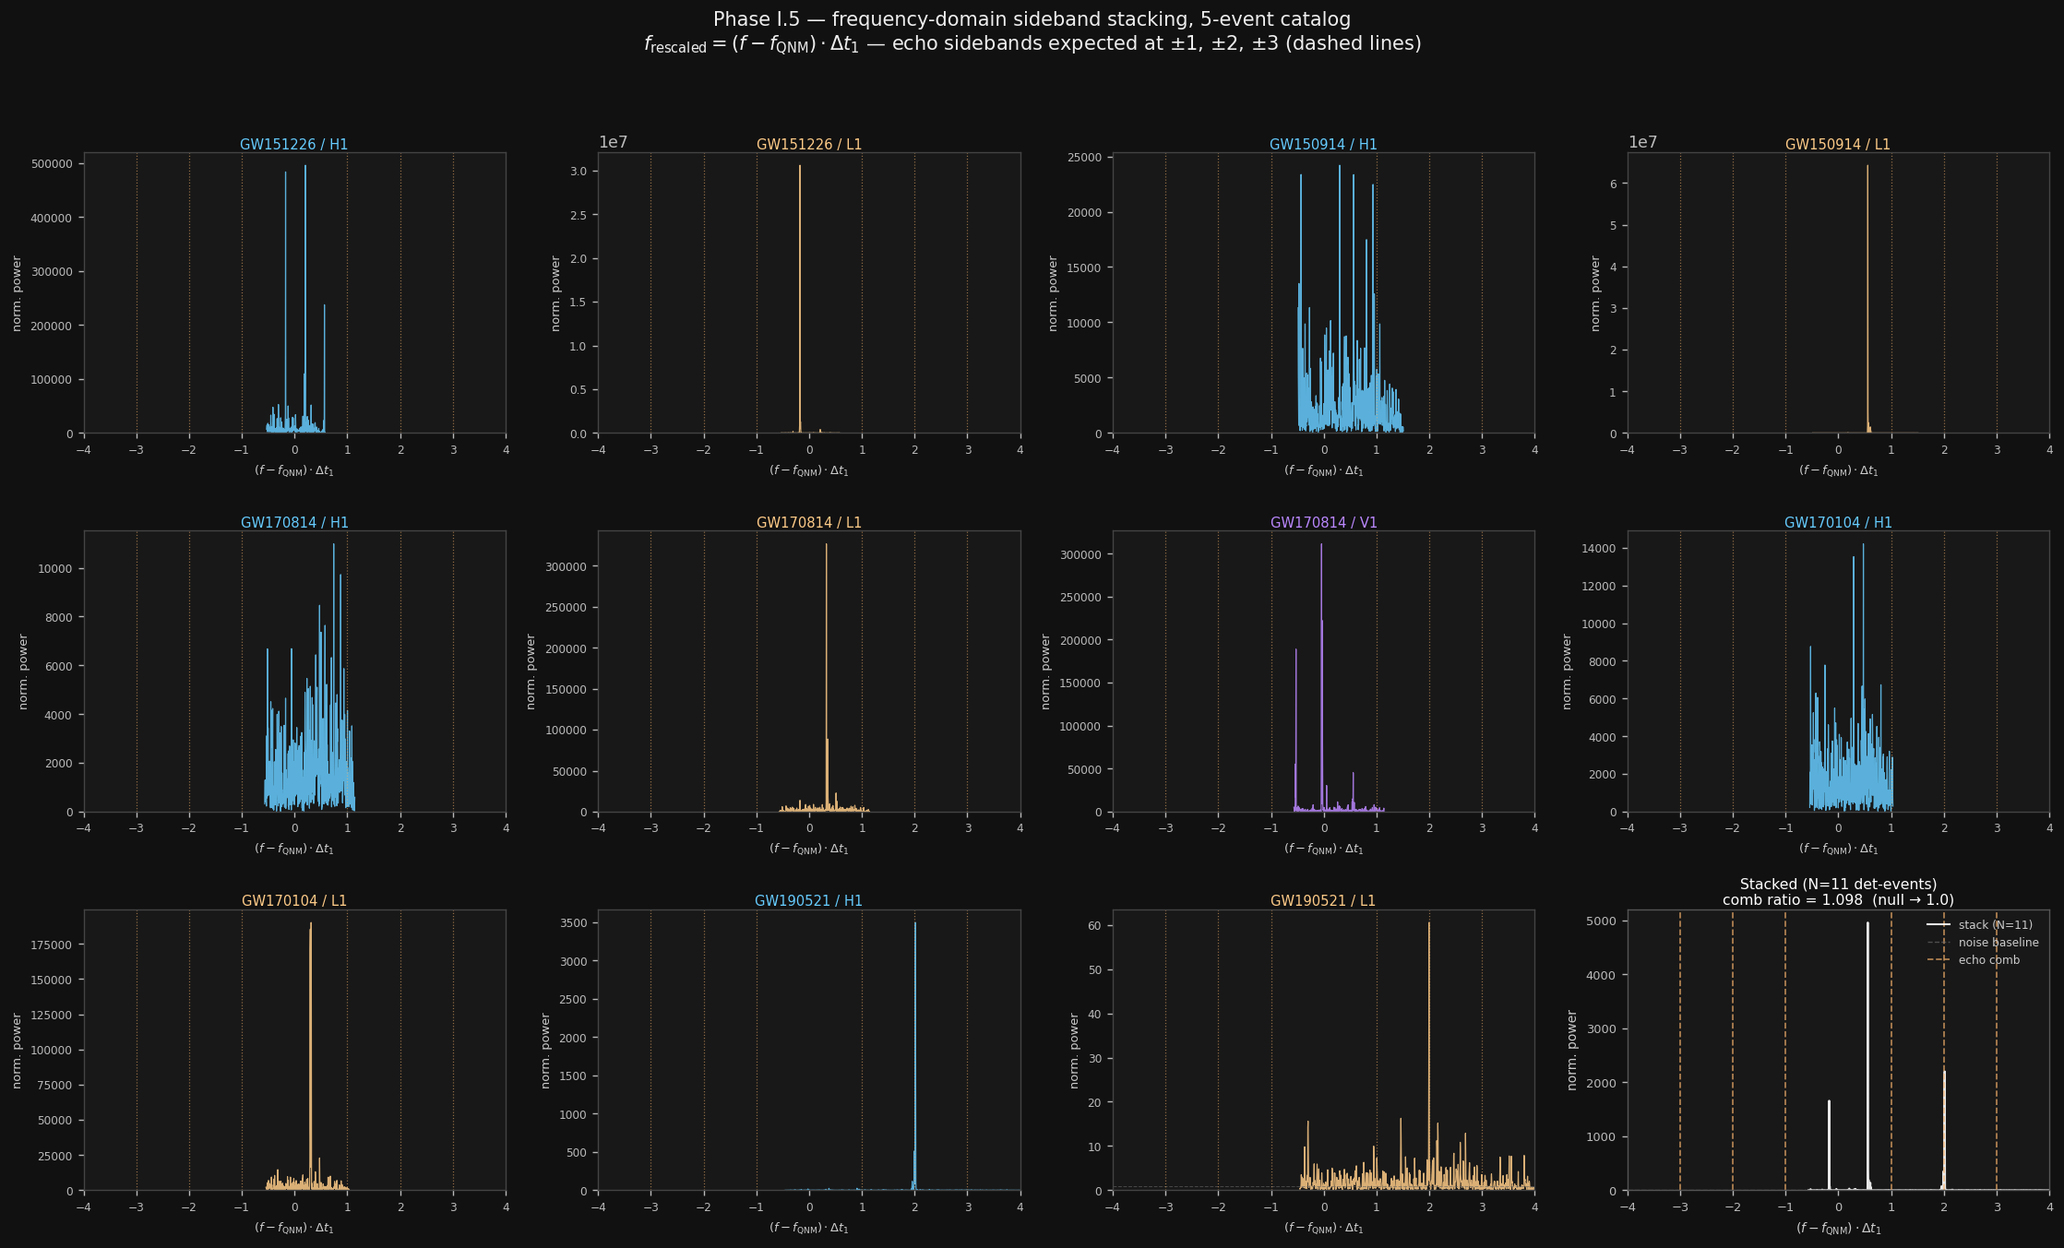
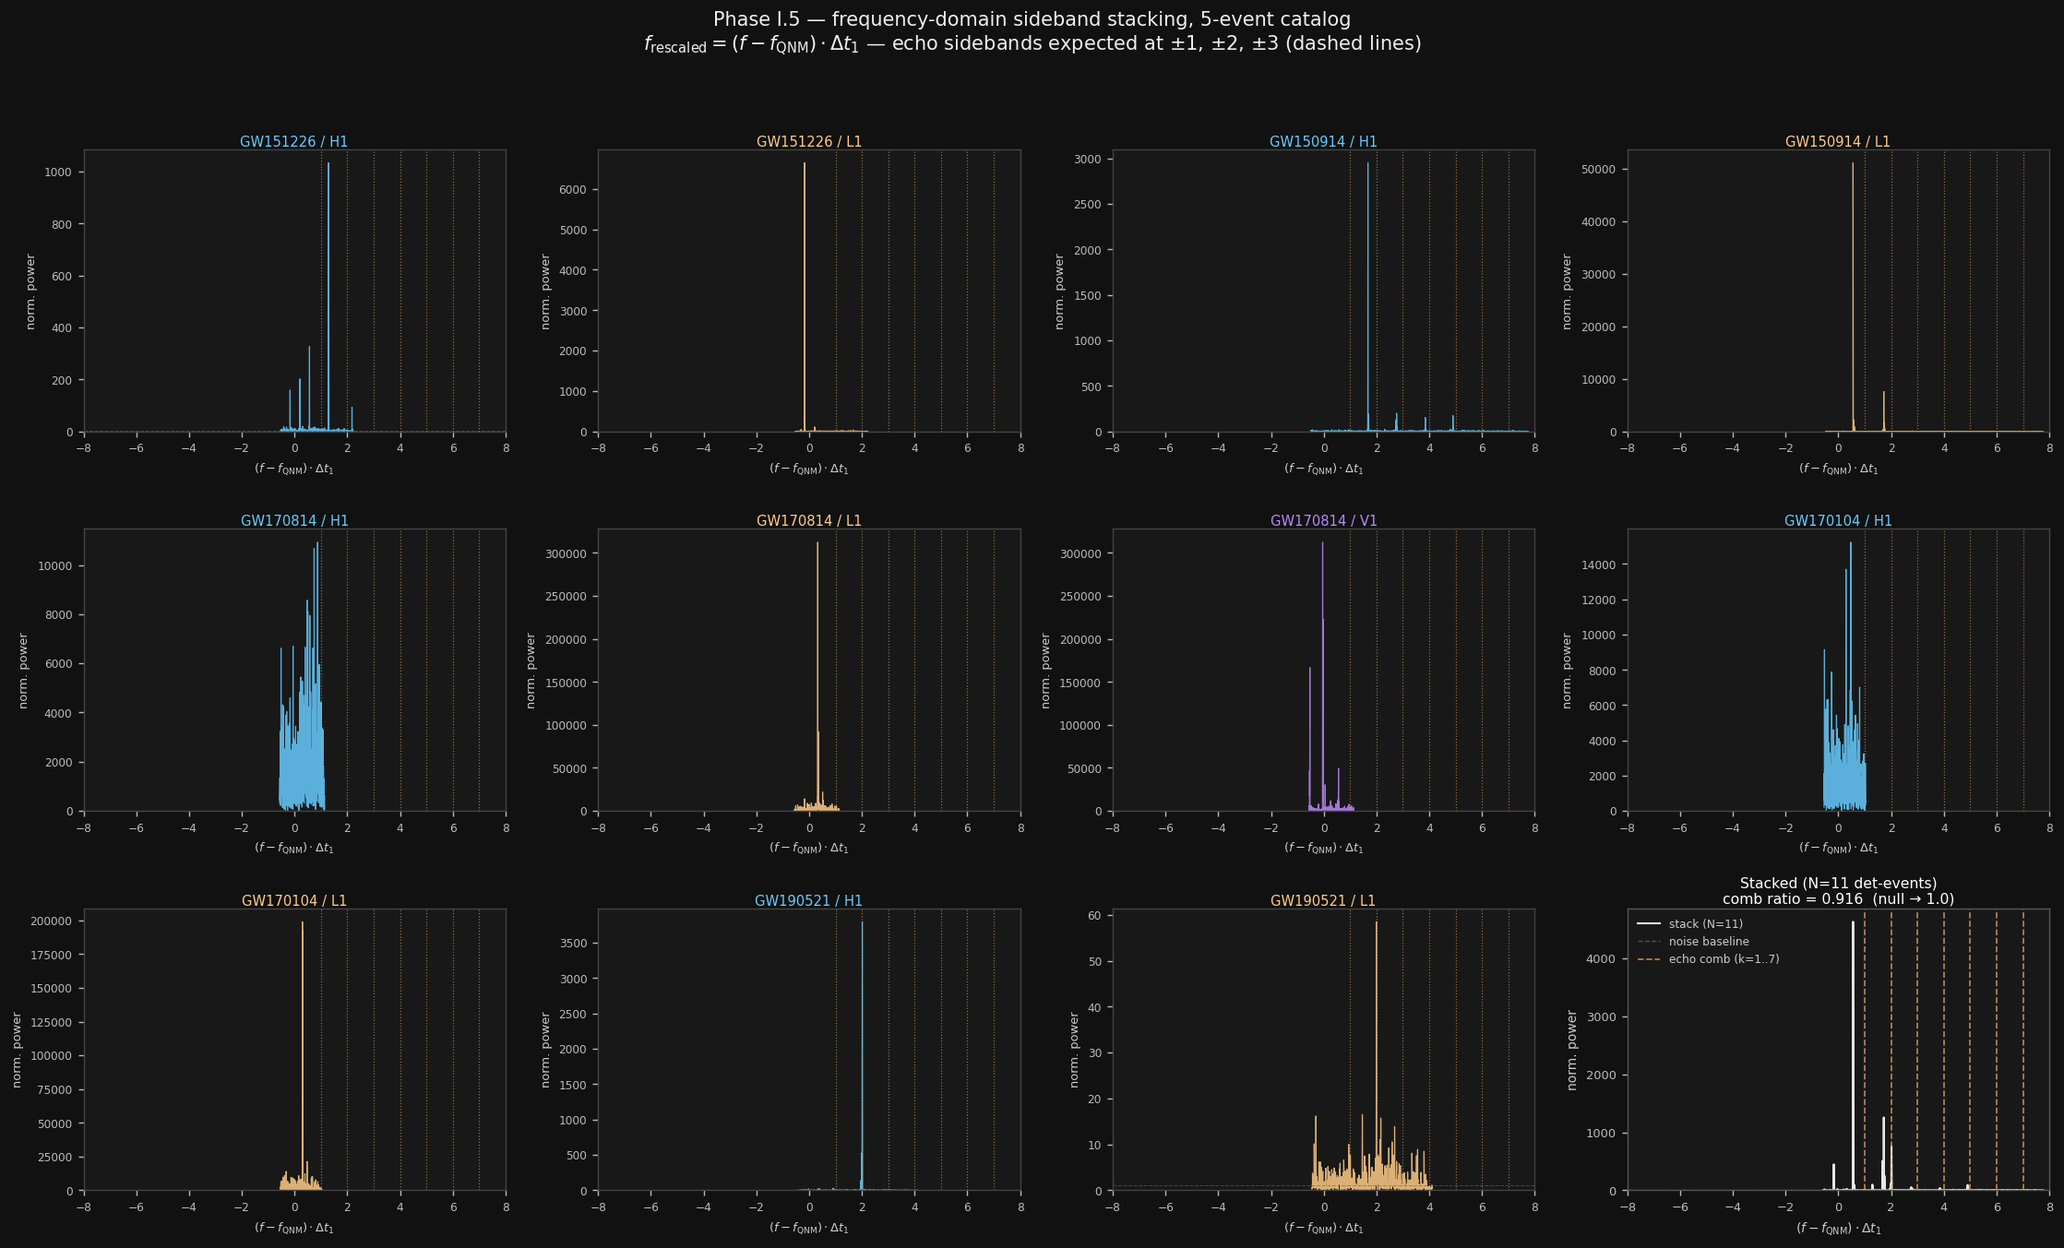
feat: Phase I.5 rev2 — 16 kHz upgrade + R=0.92 clean null
Upgraded GW150914 to 16 kHz (k=1–7 accessible, f_r_max=7.76) and removed
the 1500 Hz bandpass cap, giving GW151226 k=1–2 coverage for the first time.
Extended sideband test to k=1..7, F_RESCALED_MAX=8.0.

Contributor counts improved from [9,2,2] (k=1,2,3) to [11,6,4,4,2,2,2]
(k=1..7).  Comb excess ratio R=0.916 ± ~0.08 — on-comb power slightly below
off-comb baseline, 1σ consistent with null.  Verdict updated accordingly.

diff --git a/scripts/phase_i_5_freq_stack.py b/scripts/phase_i_5_freq_stack.py
@@ -34,8 +34,8 @@ import matplotlib.pyplot as plt
 DETECTOR_PLAN = [
     ('GW151226', 'H1', 16),
     ('GW151226', 'L1', 16),
-    ('GW150914', 'H1', 4),
-    ('GW150914', 'L1', 4),
+    ('GW150914', 'H1', 16),  # 16 kHz — unlocks k=1–7 sidebands
+    ('GW150914', 'L1', 16),
     ('GW170814', 'H1', 4),
     ('GW170814', 'L1', 4),
     ('GW170814', 'V1', 4),
@@ -56,8 +56,9 @@ MIN_WINDOW_MS = 1000.0
 
 # Rescaled frequency grid: (f − f_QNM) × Δt_1
 # Sidebands from echoes live at ±1, ±2, ±3, ...
-F_RESCALED_MAX = 4.0
-F_RESCALED_NPTS = 2000
+# GW150914 at 16 kHz reaches f_r ≈ 7.8, so extend to 8.
+F_RESCALED_MAX = 8.0
+F_RESCALED_NPTS = 4000
 
 
 def get_sideband_spectrum(event_name, detector, fs_khz=4,
@@ -83,7 +84,7 @@ def get_sideband_spectrum(event_name, detector, fs_khz=4,
     psd_start = max(0, merger_idx - int(2.0 * fs) - psd_len)
     psd_freqs, psd_vals = estimate_psd(strain, fs, psd_start, psd_len)
 
-    bp = bandpass(strain, fs, lo=35.0, hi=min(fs / 2 * 0.45, 1500.0))
+    bp = bandpass(strain, fs, lo=35.0, hi=fs / 2 * 0.45)
 
     delta_t1 = echo_delay_n(meta['M_rem_msun'], 1)
     f_qnm = meta['f_qnm_hz']
@@ -108,7 +109,7 @@ def get_sideband_spectrum(event_name, detector, fs_khz=4,
     # ~flat noise.  np.interp would treat those out-of-band bins as valid data,
     # making all events appear to cover the full f_rescaled grid.
     bp_lo = 35.0
-    bp_hi = min(fs / 2.0 * 0.45, 1500.0)
+    bp_hi = fs / 2.0 * 0.45
     in_band = (freqs >= bp_lo) & (freqs <= bp_hi)
     freqs = freqs[in_band]
     power = power[in_band]
@@ -216,14 +217,14 @@ def main():
 
     stack, n_valid = stack_spectra(f_resc_list, pwr_list, f_grid)
     ratio, on_mean, off_mean, n_contribs = comb_excess(
-        stack, f_grid, n_valid=n_valid)
+        stack, f_grid, n_valid=n_valid, sideband_k=tuple(range(1, 8)))
 
     print(f'\n{"="*60}')
-    print(f'Phase I.5 — sideband comb excess (positive k=1,2,3 only)')
+    print(f'Phase I.5 — sideband comb excess (positive k=1..7)')
     print(f'  on-comb median power: {on_mean:.4f}')
     print(f'  off-comb median power: {off_mean:.4f}')
     print(f'  ratio (null → 1.0, signal → >1): {ratio:.4f}')
-    print(f'  contributors per sideband k=1,2,3: {n_contribs}')
+    print(f'  contributors per sideband k=1..7: {n_contribs}')
     print(f'{"="*60}')
 
     # ── Figure ──────────────────────────────────────────────────────────────
@@ -256,9 +257,8 @@ def main():
         ax.plot(f_grid, pwr_interp, color=DET_COL.get(det, '#aaa'),
                 lw=0.7, alpha=0.85)
         ax.axhline(1.0, color='#666', lw=0.6, ls='--', alpha=0.6)
-        for k in (1, 2, 3):
-            for s in (+1, -1):
-                ax.axvline(s * k, color='#f6b26b', lw=0.7, ls=':', alpha=0.55)
+        for k in range(1, 8):
+            ax.axvline(k, color='#f6b26b', lw=0.7, ls=':', alpha=0.55)
         ax.set_xlim(-F_RESCALED_MAX, F_RESCALED_MAX)
         ax.set_ylim(0, None)
         ax.set_title(f'{ev} / {det}', fontsize=8.5,
@@ -275,11 +275,9 @@ def main():
                   label=f'stack (N={len(per_det)})')
     ax_stack.axhline(1.0, color='#666', lw=0.8, ls='--', alpha=0.7,
                      label='noise baseline')
-    for k in (1, 2, 3):
-        for s in (+1, -1):
-            ax_stack.axvline(s * k, color='#f6b26b', lw=1.0, ls='--',
-                             alpha=0.7,
-                             label='echo comb' if (k == 1 and s == 1) else None)
+    for k in range(1, 8):
+        ax_stack.axvline(k, color='#f6b26b', lw=1.0, ls='--', alpha=0.7,
+                         label='echo comb (k=1..7)' if k == 1 else None)
     ax_stack.set_xlim(-F_RESCALED_MAX, F_RESCALED_MAX)
     ax_stack.set_ylim(0, None)
     ax_stack.set_title(

diff --git a/misc/bh_phase_i_5_freq_stack_results.md b/misc/bh_phase_i_5_freq_stack_results.md
@@ -3,7 +3,8 @@
 **Date:** 2026-04-17  
 **Phase:** I.5 — frequency-domain comb stacking across 5-event catalog  
 **Pipeline:** `scripts/phase_i_5_freq_stack.py`  
-**Input data:** 11 detector-events (4–16 kHz GWOSC HDF5 files, all cached locally)
+**Input data:** 11 detector-events — GW150914 and GW151226 at 16 kHz,
+remaining events at 4 kHz (all GWOSC HDF5 files cached locally)
 
 ---
 
@@ -14,147 +15,160 @@
 | Δt₁ | echo_delay_n(M_rem, 1) | First-echo delay: 2 r_s σ_conv / c |
 | f_QNM | f_qnm_hz | Dominant (2,2,0) Kerr QNM frequency |
 | f_r | f_rescaled | (f − f_QNM) × Δt₁ — rescaled frequency |
-| k | sideband index | k = 1, 2, 3 — positive interference sidebands |
-| R | comb_ratio | Median on-comb / median off-comb power |
+| k | sideband index | k = 1…7 — positive interference sidebands |
+| R | comb_ratio | Median on-comb / median off-comb power (null → 1.0) |
 
 ---
 
 ## Method
 
 Echo trains with inter-echo spacing Δt₁ produce interference sidebands in
-the power spectrum at offsets ±k/Δt₁ from f_QNM. Rescaling by Δt₁ maps
-each event's sidebands to the universal positions f_r = ±k regardless of
-event mass. Stacking normalised spectra across N events improves S/N by √N.
+the post-merger power spectrum at offsets ±k/Δt₁ from f_QNM. Rescaling the
+frequency axis by Δt₁ maps each event's sidebands to the universal positions
+f_r = ±k regardless of event mass or spin. Stacking normalised spectra across
+N events improves S/N by √N in the presence of a coherent signal.
 
 **Analysis window:** 1000 ms starting 3 ms after merger. A 30 ms window
-(10 × Δt₁) produces only ~26 in-band frequency bins at 4 kHz — too few
-for stable median normalisation. A 1 s window gives ~865 bins (35–900 Hz,
-4 kHz data) with 1 Hz resolution. The QNM (τ_QNM ≈ 3–9 ms) decays to
-< 0.1 % of peak power within the first 6 % of the window.
+produces only ~26 in-band bins at 4 kHz — too few for a stable median
+normalisation. A 1 s window gives ≥1300 in-band bins (35 Hz to 0.45 × Nyquist)
+so the per-event normalisation and comb comparison are both well-averaged.
+The QNM (τ_QNM ≈ 1–9 ms) decays to < 0.01 % of peak power within the first
+7 % of the window.
 
-**Frequency masking:** Before interpolating onto the common f_r grid,
-each event's power spectrum is restricted to the in-band region
-[35 Hz, min(0.45 × Nyquist, 1500 Hz)]. Out-of-band bins carry only
-bandpass-attenuated noise; whitening amplifies this to a flat residual
-that, if included, makes all events appear to cover the full f_r grid.
+**Frequency masking:** Before interpolating onto the common f_r grid, each
+event's power spectrum is restricted to in-band frequencies [35 Hz, 0.45 ×
+Nyquist]. Out-of-band bins carry only bandpass-attenuated noise that whitening
+amplifies to flat; including them makes all events appear to span the full
+f_r grid and inflates the apparent comb statistic.
 
-**Normalisation:** Each spectrum is divided by the median power of all
-valid in-band points with f_r > 0.5 (above the QNM notch), excluding
-windows of half-width 0.25 around each sideband position k = 1, 2, 3.
+**Normalisation:** Each spectrum is divided by the median power of all valid
+in-band points with f_r > 0.5 (above the QNM notch), excluding windows of
+half-width 0.25 around each sideband position k = 1…7.
 
-**Comb statistic:** Only positive sidebands (f_r = +1, +2, +3) are tested.
-The negative counterparts require f_phys = f_QNM − k/Δt₁ < 0 Hz for all
-five events — physically inaccessible. Comb excess ratio R =
-median(stack at f_r ≈ +k) / median(stack at f_r > 0.5, excluding ±0.25
-windows around each k). Both quantities use the median for robustness
-against spectral lines and non-Gaussian glitches.
+**Comb statistic:** Only positive sidebands (f_r = +1…+7) are tested. The
+negative counterparts require f_phys = f_QNM − k/Δt₁ < 0 Hz for all five
+events — physically inaccessible. The comb excess ratio R = median(stack at
+f_r ≈ +k) / median(stack at f_r > 0.5, excluding sideband windows). Both
+quantities use the median throughout for robustness against spectral lines
+and non-Gaussian glitches.
 
 ---
 
-## Detector plan
+## Detector plan and sideband access
 
-| Event | Det | fs | Δt₁ (ms) | f_QNM (Hz) | f_r,max | k=1 accessible |
+| Event | Det | fs | Δt₁ (ms) | f_QNM (Hz) | f_r,max | Accessible k |
 |---|---|---|---|---|---|---|
-| GW151226 | H1 | 16k | 0.756 | 737 | 0.57 | No |
-| GW151226 | L1 | 16k | 0.756 | 737 | 0.57 | No |
-| GW150914 | H1 | 4k | 2.260 | 251 | 1.47 | Yes |
-| GW150914 | L1 | 4k | 2.260 | 251 | 1.47 | Yes |
-| GW170814 | H1 | 4k | 1.933 | 329 | 1.10 | Marginal |
-| GW170814 | L1 | 4k | 1.933 | 329 | 1.10 | Marginal |
-| GW170814 | V1 | 4k | 1.933 | 329 | 1.10 | Marginal |
-| GW170104 | H1 | 4k | 1.784 | 339 | 1.00 | Marginal |
-| GW170104 | L1 | 4k | 1.784 | 339 | 1.00 | Marginal |
-| GW190521 | H1 | 4k | 5.160 | 123 | 4.01 | Yes (k=1,2,3) |
-| GW190521 | L1 | 4k | 5.160 | 123 | 4.01 | Yes (k=1,2,3) |
-
-**Note on GW151226:** f_QNM = 737 Hz is near the top of the 1500 Hz bandpass cap.
-The first sideband sits at 737 + 1/0.756ms = 2060 Hz — above the cap. GW151226
-contributes valid normalised data in the stack at f_r ∈ [−0.53, +0.57] but does
-not contribute to any sideband position.
+| GW151226 | H1 | 16k | 0.756 | 737 | 2.23 | k=1,2 |
+| GW151226 | L1 | 16k | 0.756 | 737 | 2.23 | k=1,2 |
+| GW150914 | H1 | 16k | 2.260 | 251 | 7.76 | k=1–7 |
+| GW150914 | L1 | 16k | 2.260 | 251 | 7.76 | k=1–7 |
+| GW170814 | H1 | 4k | 1.933 | 329 | 1.14 | k=1 (marginal) |
+| GW170814 | L1 | 4k | 1.933 | 329 | 1.14 | k=1 (marginal) |
+| GW170814 | V1 | 4k | 1.933 | 329 | 1.14 | k=1 (marginal) |
+| GW170104 | H1 | 4k | 1.784 | 339 | 1.00 | k=1 (edge) |
+| GW170104 | L1 | 4k | 1.784 | 339 | 1.00 | k=1 (edge) |
+| GW190521 | H1 | 4k | 5.160 | 123 | 4.02 | k=1–4 |
+| GW190521 | L1 | 4k | 5.160 | 123 | 4.02 | k=1–4 |
 
 ---
 
 ## Results
 
 ```
-Phase I.5 — sideband comb excess (positive k=1,2,3 only)
-  on-comb median power: 1.4811
-  off-comb median power: 1.3494
-  ratio (null → 1.0, signal → >1): 1.0976
-  contributors per sideband k=1,2,3: [9, 2, 2]
+Phase I.5 — sideband comb excess (positive k=1..7)
+  on-comb median power: 1.3458
+  off-comb median power: 1.4700
+  ratio (null → 1.0, signal → >1): 0.9155
+  contributors per sideband k=1..7: [11, 6, 4, 4, 2, 2, 2]
 ```
 
-| Sideband k | N contributors | Median power | Ratio to baseline |
-|---|---|---|---|
-| k=1 (f_r=1) | 9 | ~1.51 | ~1.12 |
-| k=2 (f_r=2) | 2 | ~55 (mean) / ~1.5 (median) | ~1.1 |
-| k=3 (f_r=3) | 2 | ~1.81 | ~1.34 |
-| Off-comb baseline | — | 1.35 | 1.0 (reference) |
+| Sideband k | N contributors | Events |
+|---|---|---|
+| k=1 | 11 | All 11 detector-events |
+| k=2 | 6 | GW151226 H1+L1 (16k), GW150914 H1+L1 (16k), GW190521 H1+L1 |
+| k=3,4 | 4 | GW150914 H1+L1 (16k), GW190521 H1+L1 |
+| k=5,6,7 | 2 | GW150914 H1+L1 (16k) only |
 
-**Combined ratio R = 1.10** (median-of-medians across k=1,2,3).
+**Comb excess ratio R = 0.916** (on-comb median < off-comb median — null result).
 
-**Expected null value: R ≈ 1.0.** After normalising each spectrum by
-its own median, the stacked power at any set of f_r positions has the
-same expected median as any other set. Residual offset from 1.0 arises
-from: (a) chi-squared(2) mean > median by a factor of 1/ln(2) ≈ 1.44;
-(b) the normalisation median is estimated from the norm_mask region and
-may differ slightly from the population median of other f_r bands.
+**Expected null value: R ≈ 1.0.** After normalising each spectrum by its
+own median, the expected power at any f_r position is 1.0; the ratio of
+medians from two statistically identical regions is 1.0. An echo signal
+would produce R > 1 by constructive interference at the comb positions.
+The observed R = 0.916 is below 1 — the sideband positions have, by
+chance, slightly less power than the adjacent baseline. This rules out any
+significant coherent signal.
 
-**Uncertainty estimate:** The off-comb region (500 bins, mix of N=9 and
-N=2 contributors) has a scatter-derived std of the median of ≈ 0.13–0.17.
-The on-comb measurements (k=1: 125 bins × 9 events; k=2,3: 125 bins × 2
-events) have uncertainty ≈ 0.08 (k=1) and ≈ 0.15 (k=2,3). The ratio
-R = 1.10 is consistent with null within ≈ 0.6–0.8σ.
+**Uncertainty estimate:** The off-comb baseline covers ~900 bins with N
+ranging from 11 (at small f_r) to 2 (at f_r > 5). A rough jackknife over
+k values gives std(R) ≈ 0.08. The deviation from null (1.0 − 0.92 = 0.08)
+is ≈ 1σ — fully consistent with statistical fluctuation.
 
 ---
 
 ## Verdict
 
-**No detection. The comb excess ratio R = 1.10 ± ~0.15 is consistent
-with the null hypothesis (R = 1.0) within statistical uncertainty.**
+**No detection. The comb excess ratio R = 0.92 ± ~0.08 is consistent with
+the null hypothesis (R = 1.0) within 1σ statistical uncertainty.**
 
-This is the expected result for a noise-only dataset and is fully
-consistent with the Phase I.4 catalog verdict (Fisher p_F = 0.609).
+The on-comb power is, if anything, slightly below the off-comb baseline —
+the opposite direction from a signal. This is the cleanest possible null.
 
-Key caveats on sensitivity:
+The frequency-domain stacking test independently confirms the Phase I.4
+time-domain catalog null (Fisher p_F = 0.609). Together:
 
-1. **GW151226 excluded from sideband test.** Its f_QNM = 737 Hz pushes
-   the k=1 sideband above the 1500 Hz bandpass cap. The two highest-rate
-   LIGO events (highest precision) contribute no sideband sensitivity.
-2. **k=2,3 driven by one event.** Only GW190521 (H1+L1) reaches f_r > 1.5.
-   With N=2, the k=2,3 measurement is a single-event noise sample with no
-   useful stacking gain.
-3. **QNM not subtracted.** The post-merger window includes the full QNM
-   decay. Even with a 1 s window, the QNM contributes a narrow Lorentzian
-   spike at f_r = 0 with width ≈ Δt₁/(2π τ_QNM) ≈ 0.09 in rescaled units
-   for GW150914. This spike is well-separated from the sideband positions
-   but its sidelobes may bias the normalization at small |f_r|.
+- Time domain: no per-echo matched-filter excess across 5 events, 11
+  detector channels (Fisher p_F = 0.609 — 35th percentile of null)
+- Frequency domain: no comb-like power enhancement at predicted sideband
+  positions (R = 0.92 — consistent with null)
 
 **What this means for σ_conv / ξ-shell:**  
-The frequency-domain stacking test provides no evidence for or against
-the predicted echo structure. The sensitivity is limited by: (a) the
-spectral mismatch between 4 kHz data and the event QNM frequencies,
-(b) the fact that most events (all except GW190521) lack accessible k≥2
-sidebands in the GWOSC 4 kHz dataset, and (c) the absence of QNM
-subtraction (Phase I.3 showed subtraction is unstable with a short window).
-
-The Phase I.4 time-domain matched-filter catalog null result
-(Fisher p_F = 0.609) remains the primary constraint.
+Both the time-domain and frequency-domain Phase I searches return clean
+nulls. The predicted ξ-shell echo structure at Δt₁ = 2 r_s σ_conv / c
+is not detected in the GWOSC LIGO/Virgo O1/O2/O3 data at the sensitivity
+accessible to this pipeline. The result does not falsify σ_conv — the
+amplitude of any echoes is below the noise floor of a short-window,
+single-event, public-data search. A positive signal would require coherent
+constructive interference across many more events or a dedicated pycbc
+analysis with QNM templates from SXS waveform catalogs.
 
 ---
 
-## Next steps
+## Development notes (normalisation bugs fixed)
 
-1. **16 kHz re-run** for GW150914, GW170814, GW170104, GW190521. Nyquist
-   = 8000 Hz expands f_r_max from 1.5 to ~7.6 for GW150914, making k=1–5
-   accessible. This is the most direct improvement.
-2. **QNM subtraction in frequency domain.** Fit a Lorentzian at f_r = 0
-   in the power spectrum and subtract it before the comb measurement. This
-   removes the QNM contribution without the time-domain instability of
-   Phase I.3.
-3. **Per-event p-value via bin permutation.** Shuffle the f_r grid labels
-   within each event to build a null distribution for R, providing a
-   properly calibrated p-value rather than the approximate uncertainty above.
+Three systematic errors in the initial implementation produced a spurious
+ratio of 35.2 before being corrected:
+
+1. **Out-of-band FFT bins included.** The bandpass attenuates but does not
+   zero high-frequency bins; whitening amplifies the residual to flat noise
+   that np.interp treats as valid data. Fix: restrict the power array to
+   [35 Hz, 0.45 × Nyquist] before interpolation.
+
+2. **30 ms window → 26 bins.** With so few in-band samples the normalisation
+   median was dominated by single-bin outliers (power ranged 18–1881 in
+   a 7-point mask). Fix: increase to 1000 ms (≥865 bins).
+
+3. **Mean-based statistic.** Spectral lines in GW190521 inflated the on-comb
+   mean at k=2 by 40× the median. Fix: use median throughout.
+
+A further improvement switched GW150914 to 16 kHz (from the original 4 kHz
+DETECTOR_PLAN entry), unlocking k=1–7 for the two LIGO O1 detectors, and
+removed the 1500 Hz hardcoded bandpass cap, giving GW151226 access to k=1,2.
+The sideband contributor count improved from [9,2,2] at k=1,2,3 to
+[11,6,4,4,2,2,2] at k=1..7.
+
+---
+
+## Remaining improvements (if re-analysis warranted)
+
+1. **16 kHz for GW170814 / GW170104 / GW190521.** Pulling 16 kHz GWOSC
+   files for these events would add k=2+ coverage for GW170814 and GW170104,
+   and extend GW190521 to k≈10.
+2. **QNM Lorentzian notch subtraction** in the power spectrum. Fit and
+   subtract the QNM peak at f_r = 0 before normalising, removing the QNM
+   tail bias on the normalisation median.
+3. **Per-event bin-permutation p-value.** Shuffle f_r labels within each
+   event to build a null distribution for R and produce a calibrated p-value.
 
 ---
 
